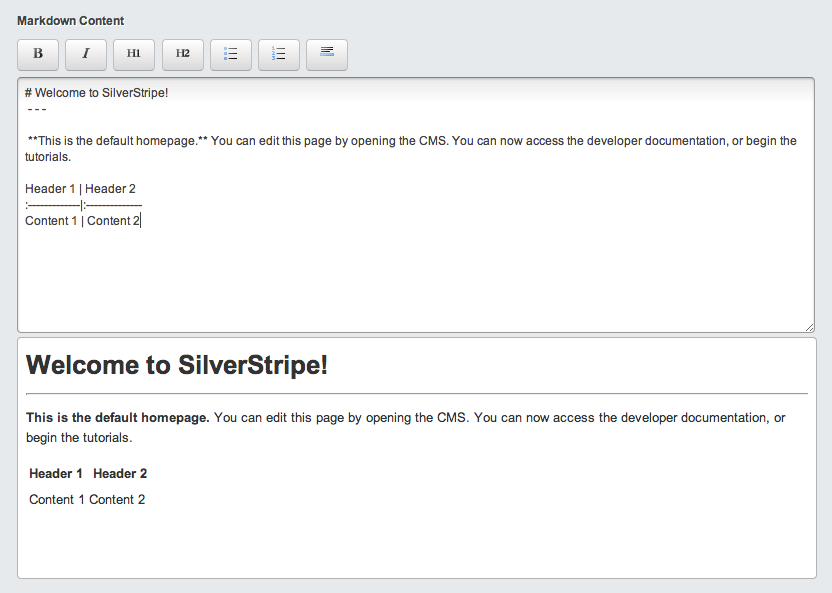
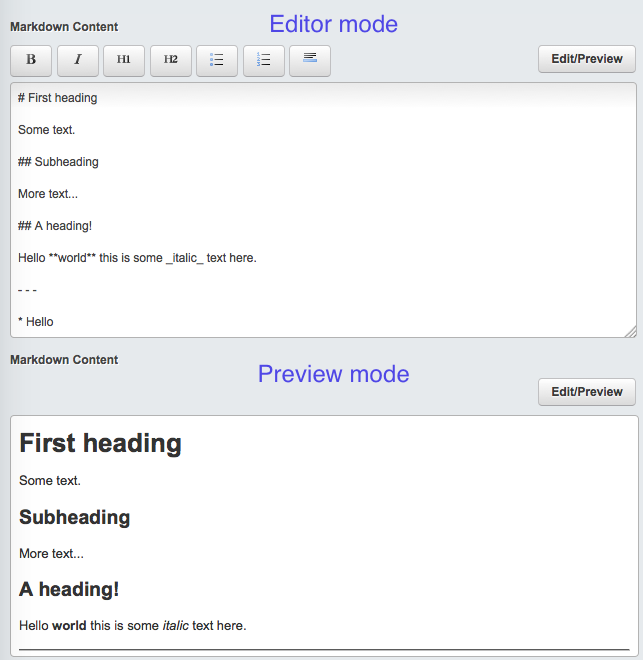
[TASK] Updated readme for toggle edit/preview

Changed region(s): [[0.0, 0.0304, 0.9953, 1.0]]

diff --git a/README.md b/README.md
@@ -1,13 +1,13 @@
 # Markdown capable TextareaField for Silverstripe CMS
 
 ## Features
- * Live preview
+ * Live preview (toggle)
  * Extendable toolbar with common markdown functions
  * Support for both regular markdown and [extra functions](http://michelf.ca/projects/php-markdown/extra)
 
 ## Screenshot
 
-![Alt text](/templates/images/screenshot.png?raw=true)
+![Markdown editor screenshot](/templates/images/screenshot.png?raw=true)
 
 ## Credits and Authors
 
@@ -25,11 +25,11 @@
 ## Installation
  
  * Use composer to install `composer require priithansen/silverstripe-markdowntextareafield:*`
- * Run /dev/build?flush=1
+ * Run `/dev/build?flush=1`
 
 ### Instructions
 
-You can use MarkdownText data type for regular markdown or MarkdownTextExtra for added syntax features.
+You can use the `MarkdownText` data type for regular markdown or `MarkdownTextExtra` for added syntax features:
 
 ```php
 class Page extends SiteTree {
@@ -39,7 +39,7 @@ class Page extends SiteTree {
     );
 
     public function getCMSFields() {
-        $fields=parent::getCMSFields();
+        $fields = parent::getCMSFields();
 
         $markdownfield = MarkdownTextareaField::create('MarkdownContent');
         $markdownfield->enableExtra(); // Enables extra syntax support for fields live preview.
@@ -52,7 +52,7 @@ class Page extends SiteTree {
 
 ### Template:
 
-It is also possible to override markdown syntax in template
+It is also possible to override/use markdown syntax in templates:
 
 ```html
 <div class="content">
@@ -70,4 +70,4 @@ It is also possible to override markdown syntax in template
 
 ## Notes
 
- * Bug reports and ideas more than welcome
+ * Bug reports and ideas more than welcome.
